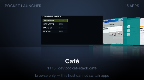
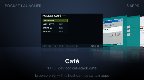
fix(launcher): full-frame shots and covers, seam-free veil animation
Three real-hardware reports, one root cause plus one GE truth:

- The shot's 2:1 center crop deformed everything downstream: the veil's
  "dimming screen" stretched 13% vertically, covers lost their top and
  bottom 16 px. The downscale now takes the FULL 480x272 frame into the
  pow2 256x128 texture (stored slightly squeezed); every consumer draws
  at screen aspect — fullscreen 480x272, cards at 192x109 — which
  undoes the squeeze exactly. No crop, no net deformation.
- The veil's left-to-right sweep read as a marching band of seams: GE
  sprites do not interpolate color across a quad, so the strip-built
  gradient was 12 flat steps. Replaced with a uniform-per-frame
  brightness swell on the mark — spatially constant by construction,
  nothing to tear.

diff --git a/host-sim/shot.ts b/host-sim/shot.ts
@@ -1,47 +1,45 @@
 // host-sim/shot.ts — the frozen-frame downscale (LAUNCHER.md, spec op 41).
 //
 // One transform, shared by the cover cooker (scripts/launcher.ts) and the
-// sim launcher runner (host-sim/launcher.ts): center-crop the 480×272
-// framebuffer to 2:1 (rows 16..255), bilinear-downscale ×1.875 to 256×128
-// RGBA — the pow2 texture the launcher stretches back over the screen.
+// sim launcher runner (host-sim/launcher.ts): bilinear-downscale the FULL
+// 480×272 framebuffer into the pow2 256×128 texture. The texture stores
+// the frame slightly squeezed (2:1 vs the screen's 1.76:1); every consumer
+// draws it at screen aspect (480×272 fullscreen, or a 192×109 card), which
+// undoes the squeeze exactly — nothing is cropped, nothing nets a stretch.
+// (The first cut center-cropped to 2:1: covers lost their top/bottom 16 px
+// and the veil's "dimming screen" visibly deformed — real-hardware find.)
 //
 // Pure IEEE-double arithmetic, no wall clock: byte-stable across runs and
 // machines, so cover-bearing goldens hold. native/src/switch.rs implements
-// the same crop + filter for the on-device capture; the two need only be
-// visually equivalent (their outputs never meet in one golden), determinism
-// WITHIN each host is what matters.
+// the same full-frame filter for the on-device capture; the two need only
+// be visually equivalent (their outputs never meet in one golden),
+// determinism WITHIN each host is what matters.
 
 export const SHOT_W = 256;
 export const SHOT_H = 128;
-
-/** Source rows kept by the 2:1 center crop of a 480×272 frame. */
-export const SHOT_CROP_Y = 16;
-export const SHOT_CROP_H = 240;
 
 /** Downscale a 480×272 RGBA framebuffer to the 256×128 shot texture. */
 export function downscaleShot(rgba: Uint8Array, srcW = 480, srcH = 272): Uint8Array {
   if (rgba.length < srcW * srcH * 4) {
     throw new Error(`shot: framebuffer too small (${rgba.length} < ${srcW * srcH * 4})`);
   }
-  const cropY = Math.max(0, Math.floor((srcH - (srcW * SHOT_H) / SHOT_W) / 2));
-  const cropH = Math.min(srcH, Math.floor((srcW * SHOT_H) / SHOT_W));
   const out = new Uint8Array(SHOT_W * SHOT_H * 4);
   const scaleX = srcW / SHOT_W;
-  const scaleY = cropH / SHOT_H;
+  const scaleY = srcH / SHOT_H;
   for (let dy = 0; dy < SHOT_H; dy++) {
     const sy = (dy + 0.5) * scaleY - 0.5;
-    const y0 = Math.min(cropH - 1, Math.max(0, Math.floor(sy)));
-    const y1 = Math.min(cropH - 1, y0 + 1);
+    const y0 = Math.min(srcH - 1, Math.max(0, Math.floor(sy)));
+    const y1 = Math.min(srcH - 1, y0 + 1);
     const fy = Math.min(1, Math.max(0, sy - y0));
     for (let dx = 0; dx < SHOT_W; dx++) {
       const sx = (dx + 0.5) * scaleX - 0.5;
       const x0 = Math.min(srcW - 1, Math.max(0, Math.floor(sx)));
       const x1 = Math.min(srcW - 1, x0 + 1);
       const fx = Math.min(1, Math.max(0, sx - x0));
-      const r00 = ((cropY + y0) * srcW + x0) * 4;
-      const r01 = ((cropY + y0) * srcW + x1) * 4;
-      const r10 = ((cropY + y1) * srcW + x0) * 4;
-      const r11 = ((cropY + y1) * srcW + x1) * 4;
+      const r00 = (y0 * srcW + x0) * 4;
+      const r01 = (y0 * srcW + x1) * 4;
+      const r10 = (y1 * srcW + x0) * 4;
+      const r11 = (y1 * srcW + x1) * 4;
       const o = (dy * SHOT_W + dx) * 4;
       for (let c = 0; c < 3; c++) {
         const top = rgba[r00 + c] + (rgba[r01 + c] - rgba[r00 + c]) * fx;

diff --git a/demos/launcher/app.tsx b/demos/launcher/app.tsx
@@ -221,15 +221,18 @@ export default function Launcher() {
           {apps.map((app, i) => {
             const t = targetFor(i - untrack(sel));
             // Cover + baked reflection as TWO stacked quads in one rotating
-            // 192×192 container: their shared seam is a geometric edge and
-            // projects to a straight line. (One tall quad put the seam
-            // mid-texture, where the GE's screen-space affine sampling bends
-            // it at the triangle diagonal on tilted cards — real-PSP find.)
+            // container: their shared seam is a geometric edge and projects
+            // to a straight line. (One tall quad put the seam mid-texture,
+            // where the GE's screen-space affine sampling bends it at the
+            // triangle diagonal on tilted cards — real-PSP find.) 192×109 =
+            // the true 480:272 screen aspect: the textures store the full
+            // frame slightly squeezed (2:1 pow2), this draw size undoes it —
+            // no crop, no net deformation (also a real-hardware find).
             return (
               <View
                 ref={(el: NodeMirror) => (cardEls[i] = el)}
                 debugName="Card"
-                class="absolute left-[144] top-[58] w-[192] h-[192]"
+                class="absolute left-[144] top-[52] w-[192] h-[218]"
                 style={{
                   translateX: t.translateX,
                   translateZ: t.translateZ,
@@ -237,8 +240,8 @@ export default function Launcher() {
                   opacity: t.opacity,
                 }}
               >
-                <Image class="absolute left-0 top-0 w-[192] h-[96]" src={app.cover} />
-                <Image class="absolute left-0 top-[96] w-[192] h-[96]" src={app.refl} />
+                <Image class="absolute left-0 top-0 w-[192] h-[109]" src={app.cover} />
+                <Image class="absolute left-0 top-[109] w-[192] h-[109]" src={app.refl} />
               </View>
             );
           })}

diff --git a/spec/spec.ts b/spec/spec.ts
@@ -219,8 +219,9 @@ export const OP = {
   //                      Launching `current` relaunches it fresh — there is
   //                      no suspend anywhere in this protocol.
   appShot: 41, //         () -> handle | -1. Texture of the frozen frame the
-  //                      SELECT summon captured (480x272 framebuffer center-
-  //                      cropped to 2:1, box-downscaled to 256x128 PSM_8888).
+  //                      SELECT summon captured: the FULL 480x272 frame
+  //                      downscaled into 256x128 PSM_8888 (stored slightly
+  //                      squeezed — draw it at screen aspect to undo it).
   //                      Valid inside the summoned launcher guest until the
   //                      next switch; -1 otherwise.
 } as const;

diff --git a/native/src/veil.rs b/native/src/veil.rs
@@ -2,11 +2,13 @@
 //! before the incoming bundle's blocking eval.
 //!
 //! Host-direct GE drawing, no guest anywhere: the outgoing frame's shot
-//! dims down, the baked Pocket mark fades in centered, and a highlight
-//! sweeps across it — vertex-alpha strips over the mark's own texture,
-//! additive-blended, the PSP-era way to mask a glow to a glyph without a
-//! second texture. The last frame settles and HOLDS through the eval; the
-//! incoming guest's first present replaces it.
+//! dims down, the baked Pocket mark fades in centered and settles, and its
+//! brightness swells once — every animated quantity is UNIFORM across the
+//! frame (vertex color ramps over time only), because GE sprites do not
+//! interpolate color across a quad: any spatial gradient built from flat
+//! strips reads as a marching band of seams on hardware (the first cut's
+//! left-to-right sweep did exactly that). The last frame settles and HOLDS
+//! through the eval; the incoming guest's first present replaces it.
 //!
 //! Deliberately invisible to every contract: no op, no capability, and the
 //! frames present OUTSIDE the input-indexed main loop, so the capture
@@ -34,9 +36,10 @@ const CX: i16 = 240;
 const CY: i16 = 128;
 
 const FRAMES: u32 = 24;
-const SWEEP_START: u32 = 8;
-const SWEEP_END: u32 = 22;
-const STRIPS: usize = 12;
+/// The one-shot brightness swell: base silver rises to full white and back
+/// over these frames (uniform per frame — no spatial gradient, no seams).
+const SWELL_START: u32 = 8;
+const SWELL_END: u32 = 22;
 
 /// TEXTURE_16BIT | COLOR_8888 | VERTEX_16BIT | TRANSFORM_2D (ge.rs layout;
 /// UVs are TEXELS in 2D transform mode).
@@ -156,14 +159,22 @@ pub unsafe fn play() {
         }
 
         if let Some(logo_ptr) = logo {
-            // The mark: fade + settle in over frames 2..12, slight scale-in.
+            // The mark: fade + settle in over frames 2..12, slight scale-in,
+            // then one gentle whole-mark brightness swell. All ramps are
+            // per-frame uniform — reliable on the real GE by construction.
             let f = (((k as f32) - 2.0) / 10.0).clamp(0.0, 1.0);
             if f > 0.0 {
                 let alpha = (f * 255.0) as u8;
                 let half = (MARK as f32 * (1.10 - 0.10 * f) * 0.5) as i16;
+                let swell = if (SWELL_START..SWELL_END).contains(&k) {
+                    let t = ((k - SWELL_START) as f32) / ((SWELL_END - SWELL_START) as f32);
+                    let d = 2.0 * t - 1.0;
+                    (1.0 - d * d).max(0.0)
+                } else {
+                    0.0
+                };
+                let bright = |base: f32| ((base + (255.0 - base) * swell) as u8);
                 bind(logo_ptr, LOGO_TEX as i32, LOGO_TEX as i32);
-                // Slightly dimmed silver base — the additive sweep below
-                // needs headroom to visibly flash the mark to full white.
                 sprite(
                     0,
                     0,
@@ -173,48 +184,9 @@ pub unsafe fn play() {
                     CY - half,
                     CX + half,
                     CY + half,
-                    abgr(alpha, 0xd8, 0xd2, 0xcc),
+                    abgr(alpha, bright(216.0), bright(210.0), bright(204.0)),
                 );
                 flush_sprites();
-
-                // The sweep: a highlight crossing the mark left to right —
-                // the SAME texture drawn additive in vertical strips whose
-                // vertex alpha follows a moving bell curve. Texture alpha
-                // clips the glow to the glyph.
-                if (SWEEP_START..SWEEP_END).contains(&k) {
-                    sys::sceGuBlendFunc(
-                        BlendOp::Add,
-                        BlendFactor::SrcAlpha,
-                        BlendFactor::Fix,
-                        0,
-                        0xffffff,
-                    );
-                    let sweep = -0.25 + 1.5 * ((k - SWEEP_START) as f32) / ((SWEEP_END - SWEEP_START) as f32);
-                    let x0 = CX - half;
-                    let w = (half as i32 * 2) as f32;
-                    for s in 0..STRIPS {
-                        let c = (s as f32 + 0.5) / STRIPS as f32;
-                        let d = (c - sweep) / 0.16;
-                        let bell = (1.0 - (d * d).min(1.0)).max(0.0);
-                        let a = (bell * bell * f * 190.0) as u8;
-                        if a == 0 {
-                            continue;
-                        }
-                        let sx0 = x0 + ((w * s as f32) / STRIPS as f32) as i16;
-                        let sx1 = x0 + ((w * (s as f32 + 1.0)) / STRIPS as f32) as i16;
-                        let u0 = ((LOGO_TEX as f32 * s as f32) / STRIPS as f32) as i16;
-                        let u1 = ((LOGO_TEX as f32 * (s as f32 + 1.0)) / STRIPS as f32) as i16;
-                        sprite(u0, 0, u1, LOGO_TEX, sx0, CY - half, sx1, CY + half, abgr(a, 0xff, 0xff, 0xff));
-                    }
-                    flush_sprites();
-                    sys::sceGuBlendFunc(
-                        BlendOp::Add,
-                        BlendFactor::SrcAlpha,
-                        BlendFactor::OneMinusSrcAlpha,
-                        0,
-                        0,
-                    );
-                }
             }
         }
 

diff --git a/native/src/switch.rs b/native/src/switch.rs
@@ -20,14 +20,16 @@ use pocketjs_core::{spec, Ui};
 // $OUT_DIR/apps.rs — `EmbeddedApp` + `APPS` (build.rs generates both).
 include!(concat!(env!("OUT_DIR"), "/apps.rs"));
 
-/// Shot geometry (spec op 41; host-sim/shot.ts is the sim twin).
+/// Shot geometry (spec op 41; host-sim/shot.ts is the sim twin). The FULL
+/// 480×272 frame is downscaled — the texture stores it slightly squeezed
+/// (2:1 vs 1.76:1) and consumers draw at screen aspect, which undoes it
+/// exactly. No crop: a cropped shot visibly deformed the veil's "dimming
+/// screen" and cut covers' top/bottom (real-hardware find).
 pub const SHOT_W: u32 = 256;
 pub const SHOT_H: u32 = 128;
 const SHOT_BYTES: usize = (SHOT_W * SHOT_H * 4) as usize;
-/// 2:1 center crop of the 480×272 display: rows 16..256.
-const CROP_Y: usize = 16;
-const CROP_H: usize = 240;
 const SRC_W: usize = 480;
+const SRC_H: usize = 272;
 const FB_STRIDE_BYTES: usize = 512 * 4;
 
 static mut CURRENT: usize = 0;
@@ -146,7 +148,7 @@ fn push_json_str(out: &mut String, s: &str) {
 
 /// Capture the just-presented display framebuffer (Psm8888, 512 stride, the
 /// dbg.rs shot technique: uncached VRAM mirror, cached-RAM bounce rows) and
-/// bilinear-downscale the 2:1 center crop into the static shot buffer.
+/// bilinear-downscale the FULL frame into the static shot buffer.
 /// Call ONLY between present and the next sceGuStart — the GE must be idle.
 pub unsafe fn capture_shot() {
     let mut top: *mut core::ffi::c_void = core::ptr::null_mut();
@@ -171,19 +173,19 @@ pub unsafe fn capture_shot() {
     let mut row0 = [0u8; SRC_W * 4];
     let mut row1 = [0u8; SRC_W * 4];
     let scale_x = SRC_W as f32 / SHOT_W as f32; // 1.875
-    let scale_y = CROP_H as f32 / SHOT_H as f32; // 1.875
+    let scale_y = SRC_H as f32 / SHOT_H as f32; // 2.125
     for dy in 0..SHOT_H as usize {
         let sy = (dy as f32 + 0.5) * scale_y - 0.5;
-        let y0 = (sy as i32).clamp(0, CROP_H as i32 - 1) as usize;
-        let y1 = (y0 + 1).min(CROP_H - 1);
+        let y0 = (sy as i32).clamp(0, SRC_H as i32 - 1) as usize;
+        let y1 = (y0 + 1).min(SRC_H - 1);
         let fy = (sy - y0 as f32).clamp(0.0, 1.0);
         core::ptr::copy_nonoverlapping(
-            (base + (CROP_Y + y0) * FB_STRIDE_BYTES) as *const u8,
+            (base + y0 * FB_STRIDE_BYTES) as *const u8,
             row0.as_mut_ptr(),
             SRC_W * 4,
         );
         core::ptr::copy_nonoverlapping(
-            (base + (CROP_Y + y1) * FB_STRIDE_BYTES) as *const u8,
+            (base + y1 * FB_STRIDE_BYTES) as *const u8,
             row1.as_mut_ptr(),
             SRC_W * 4,
         );

diff --git a/LAUNCHER.md b/LAUNCHER.md
@@ -27,7 +27,7 @@ the system summon chord.
 |----|------|-----------|-----------|
 | 39 | `appTable` | `() -> string` | JSON `{ apps: [{output, id, title}], current, resume }`. `current` is the running bundle's output name; `resume` is the app interrupted by the last SELECT summon (null after a cold boot or an explicit launch). Hosts without app switching omit the op (same rule as `debugStats`). |
 | 40 | `appLaunch` | `(output: string) -> 0\|1` | Request a switch. The host finishes the CURRENT frame (draw + present), then swaps guests before the next one. Returns 0 for an unknown output (no switch scheduled). Calling it with `current` relaunches fresh. |
-| 41 | `appShot` | `() -> handle \| -1` | Texture handle of the frozen frame captured when the running app was summoned away: 256×128 PSM_8888, the 480×272 framebuffer center-cropped to 2:1 and box-downscaled. Valid in the guest booted by a summon until the next switch; -1 otherwise. |
+| 41 | `appShot` | `() -> handle \| -1` | Texture handle of the frozen frame captured when the running app was summoned away: the FULL 480×272 frame downscaled into 256×128 PSM_8888 (stored slightly squeezed; drawn at screen aspect, which undoes it). Valid in the guest booted by a summon until the next switch; -1 otherwise. |
 
 `@pocketjs/framework/launcher` wraps these (`appTable()`, `launchApp()`,
 `frozenShot()`, `launcherActive()`) and degrades to `null`/no-op on hosts
@@ -76,7 +76,7 @@ and fragmentation does not accumulate by construction.
 1. **scan** — resolve every demo manifest for `psp`, dedupe by `app.output`,
    emit `dist/launcher-registry.json` + `demos/launcher/registry.generated.ts`.
 2. **covers** — boot each admitted app in host-sim, settle 90 virtual frames,
-   render, center-crop 480×240, box-downscale to 256×128, write
+   render, box-downscale the full frame to 256×128, write
    `demos/launcher/covers/cover-<output>.png` (generated, deterministic —
    the sim is the oracle, so goldens over cover-bearing frames stay stable).
 3. **build** — `pocket compile` every admitted app + the launcher, then the
@@ -112,14 +112,17 @@ and fragmentation does not accumulate by construction.
   demo's visual change. Determinism is asserted by hash equality instead.
 - Native gotcha the e2e caught: the GE leaves framebuffer alpha at 0, so
   the frozen-shot capture forces alpha 255 or the background blends away.
-- Real-hardware pass: pending (PPSSPP software-renderer verified).
+- Real-hardware pass: DONE (PSPLINK, iterated live) — it found the clock
+  never being set, the affine seam, the texture-heap OOM, 4444 banding,
+  the crop deformation and the sweep seams; each fix is annotated at its
+  site. PPSSPP's software GE reproduces most of these; the sim none.
 
 ## The launcher app
 
 `demos/launcher` — an ordinary manifest app (requires `text.glyphs.baked` +
 `input.buttons`). Cover Flow built on the 2D core's perspective pipeline
 (the same TEX_TRI path motions page 4 ships): one `perspective` root, one
-2:1 cover card per app, center card flat, neighbors angled with `rotateY` ±
+screen-aspect (192×109) cover card per app, center card flat, neighbors angled with `rotateY` ±
 rail `translateX` + recession `translateZ`. Browse motion is short
 `animate()` tweens retargeted per step (springs let a mashed d-pad outrun
 the deck — a real-hardware find), so steady state still runs zero per-frame